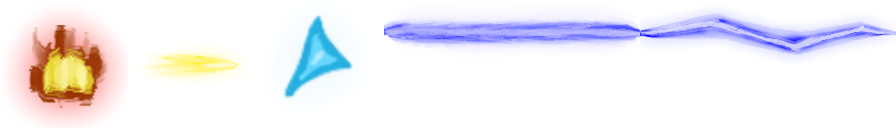
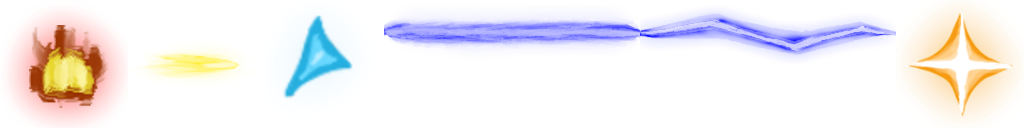
Update sparkle image

Changed region(s): [[0.0, 0.0938, 1.0, 0.9062], [0.5312, 0.1562, 0.5625, 0.1875]]

diff --git a/tower-defense/tools/particle_atlas/rust_generator/shape_monster_section.ts b/tower-defense/tools/particle_atlas/rust_generator/shape_monster_section.ts
@@ -3,21 +3,20 @@ import { spriteOrThrow } from "../types.ts";
 
 export function appendShapeAndMonsterSection(
     rs: string,
-    shapes: Atlas,
+    _shapes: Atlas,
     attack: Atlas,
     monsters: Atlas,
 ): string {
-    const sh = shapes.sprites;
-    const glowCircle = spriteOrThrow(sh, "GLOW_CIRCLE");
     const burningTail = spriteOrThrow(attack.sprites, "BURNING_TAIL");
     const emberSpark = spriteOrThrow(attack.sprites, "EMBER_SPARK");
     const blueSpark = spriteOrThrow(attack.sprites, "BLUE_SPARK");
     const lightningBolt = spriteOrThrow(attack.sprites, "LIGHTNING_BOLT");
-    rs += `pub fn glow_circle() -> Rect<Px> { rect(${glowCircle.x}.0, ${glowCircle.y}.0, ${glowCircle.w}.0, ${glowCircle.h}.0) }\n`;
+    const sparkle = spriteOrThrow(attack.sprites, "SPARKLE");
     rs += `pub fn burning_tail() -> Rect<Px> { rect(${burningTail.x}.0, ${burningTail.y}.0, ${burningTail.w}.0, ${burningTail.h}.0) }\n`;
     rs += `pub fn ember_spark() -> Rect<Px> { rect(${emberSpark.x}.0, ${emberSpark.y}.0, ${emberSpark.w}.0, ${emberSpark.h}.0) }\n`;
     rs += `pub fn blue_spark() -> Rect<Px> { rect(${blueSpark.x}.0, ${blueSpark.y}.0, ${blueSpark.w}.0, ${blueSpark.h}.0) }\n`;
     rs += `pub fn lightning_bolt_rect() -> Rect<Px> { rect(${lightningBolt.x}.0, ${lightningBolt.y}.0, ${lightningBolt.w}.0, ${lightningBolt.h}.0) }\n`;
+    rs += `pub fn sparkle() -> Rect<Px> { rect(${sparkle.x}.0, ${sparkle.y}.0, ${sparkle.w}.0, ${sparkle.h}.0) }\n`;
 
     const ms = monsters.sprites;
     const monsterSoul = spriteOrThrow(ms, "MONSTER_SOUL");

diff --git a/tower-defense/tools/particle_atlas/build_atlases.ts b/tower-defense/tools/particle_atlas/build_atlases.ts
@@ -17,7 +17,7 @@ export async function createShapesAtlas(): Promise<Atlas> {
 }
 
 export async function createAttackAtlas(): Promise<Atlas> {
-    const attack = createAtlas("attack", CELL * 7, CELL);
+    const attack = createAtlas("attack", CELL * 8, CELL);
     await drawImage(
         attack,
         "BURNING_TAIL",
@@ -46,6 +46,11 @@ export async function createAttackAtlas(): Promise<Atlas> {
         path.join(ASSET_DIR, "attack", "particle", "lightning_bolt.png"),
         256,
         64,
+    );
+    await drawImage(
+        attack,
+        "SPARKLE",
+        path.join(ASSET_DIR, "attack", "particle", "sparkle.png"),
     );
     return attack;
 }

diff --git a/tower-defense/src/game_state/field_particle/particle/sparkle.rs b/tower-defense/src/game_state/field_particle/particle/sparkle.rs
@@ -18,6 +18,8 @@ const BLINK_RISE_RATIO: f32 = 0.4;
 
 const RESPAWN_CHANCE: f32 = 0.25;
 const MAX_RESPAWN_COUNT: u8 = 1;
+const SPARKLE_ANGLE_MIN_RAD: f32 = 0.0;
+const SPARKLE_ANGLE_MAX_RAD: f32 = std::f32::consts::TAU;
 
 #[derive(Clone)]
 pub struct SparkleParticle {
@@ -28,6 +30,7 @@ pub struct SparkleParticle {
     pub alpha: f32,
     pub respawn_count: u8,
     pub size_scale: f32,
+    pub angle_rad: f32,
 }
 
 impl SparkleParticle {
@@ -56,6 +59,7 @@ impl SparkleParticle {
         let lifetime = Duration::from_millis(lifetime_ms);
 
         let size_scale = rng.gen_range(SIZE_SCALE_MIN..=SIZE_SCALE_MAX);
+        let angle_rad = rng.gen_range(SPARKLE_ANGLE_MIN_RAD..SPARKLE_ANGLE_MAX_RAD);
 
         Self {
             xy: final_xy,
@@ -65,6 +69,7 @@ impl SparkleParticle {
             alpha: SPARKLE_ALPHA,
             respawn_count: 0,
             size_scale,
+            angle_rad,
         }
     }
 
@@ -80,6 +85,7 @@ impl SparkleParticle {
         let lifetime = Duration::from_millis(lifetime_ms);
 
         let size_scale = rng.gen_range(SIZE_SCALE_MIN..=SIZE_SCALE_MAX);
+        let angle_rad = rng.gen_range(SPARKLE_ANGLE_MIN_RAD..SPARKLE_ANGLE_MAX_RAD);
 
         Self {
             xy: final_xy,
@@ -89,6 +95,7 @@ impl SparkleParticle {
             alpha: SPARKLE_ALPHA,
             respawn_count: self.respawn_count + 1,
             size_scale,
+            angle_rad,
         }
     }
 
@@ -127,13 +134,14 @@ impl SparkleParticle {
         let xy_px = TILE_PX_SIZE.to_xy() * Xy::new(self.xy.0, self.xy.1);
 
         let scale = (TILE_PX_SIZE.width.as_f32() * SPARKLE_SIZE_TILE * self.size_scale) / 128.0;
-        let color = Color::from_f01(1.0, 0.9, 0.2, self.alpha);
+        let color = Color::BLACK.with_alpha((self.alpha * 255.0) as u8);
 
-        sprites.push(atlas::centered_sprite(
-            atlas::glow_circle(),
+        sprites.push(atlas::centered_rotated_sprite(
+            atlas::sparkle(),
             xy_px.x,
             xy_px.y,
             scale,
+            self.angle_rad,
             Some(color),
         ));
 

diff --git a/tower-defense/src/game_state/render.rs b/tower-defense/src/game_state/render.rs
@@ -297,7 +297,6 @@ fn render_cursor_preview(ctx: &RenderCtx, game_state: &GameState) {
 }
 
 fn render_field_particles(ctx: &RenderCtx, _game_state: &GameState) {
-    let shapes = crate::asset::image::PARTICLE_SHAPES;
     let attack = crate::asset::image::PARTICLE_ATTACK;
     let line = crate::asset::image::PARTICLE_LINE;
     let projectiles = crate::asset::image::PARTICLE_PROJECTILES;
@@ -386,8 +385,8 @@ fn render_field_particles(ctx: &RenderCtx, _game_state: &GameState) {
     });
     ctx.add(namui::particle::RenderEmitter {
         emitter: &field_particle::SPARKLES,
-        image: shapes,
-        sprite_colors_blend_mode: BlendMode::Modulate,
+        image: attack,
+        sprite_colors_blend_mode: BlendMode::Screen,
         paint: screen_paint.clone(),
     });
     ctx.add(namui::particle::RenderEmitter {

diff --git a/tower-defense/src/game_state/field_particle/atlas.rs b/tower-defense/src/game_state/field_particle/atlas.rs
@@ -116,11 +116,11 @@ pub fn line_sprite_from_rect(
 }
 
 pub fn laser_line_rect() -> Rect<Px> { rect(384.0, 0.0, 256.0, 64.0) }
-pub fn glow_circle() -> Rect<Px> { rect(0.0, 0.0, 128.0, 128.0) }
 pub fn burning_tail() -> Rect<Px> { rect(0.0, 0.0, 128.0, 128.0) }
 pub fn ember_spark() -> Rect<Px> { rect(128.0, 0.0, 128.0, 128.0) }
 pub fn blue_spark() -> Rect<Px> { rect(256.0, 0.0, 128.0, 128.0) }
 pub fn lightning_bolt_rect() -> Rect<Px> { rect(640.0, 0.0, 256.0, 64.0) }
+pub fn sparkle() -> Rect<Px> { rect(896.0, 0.0, 128.0, 128.0) }
 pub fn monster_soul() -> Rect<Px> { rect(1280.0, 128.0, 128.0, 192.0) }
 
 pub fn monster_rect(kind: crate::game_state::MonsterKind) -> Rect<Px> {
